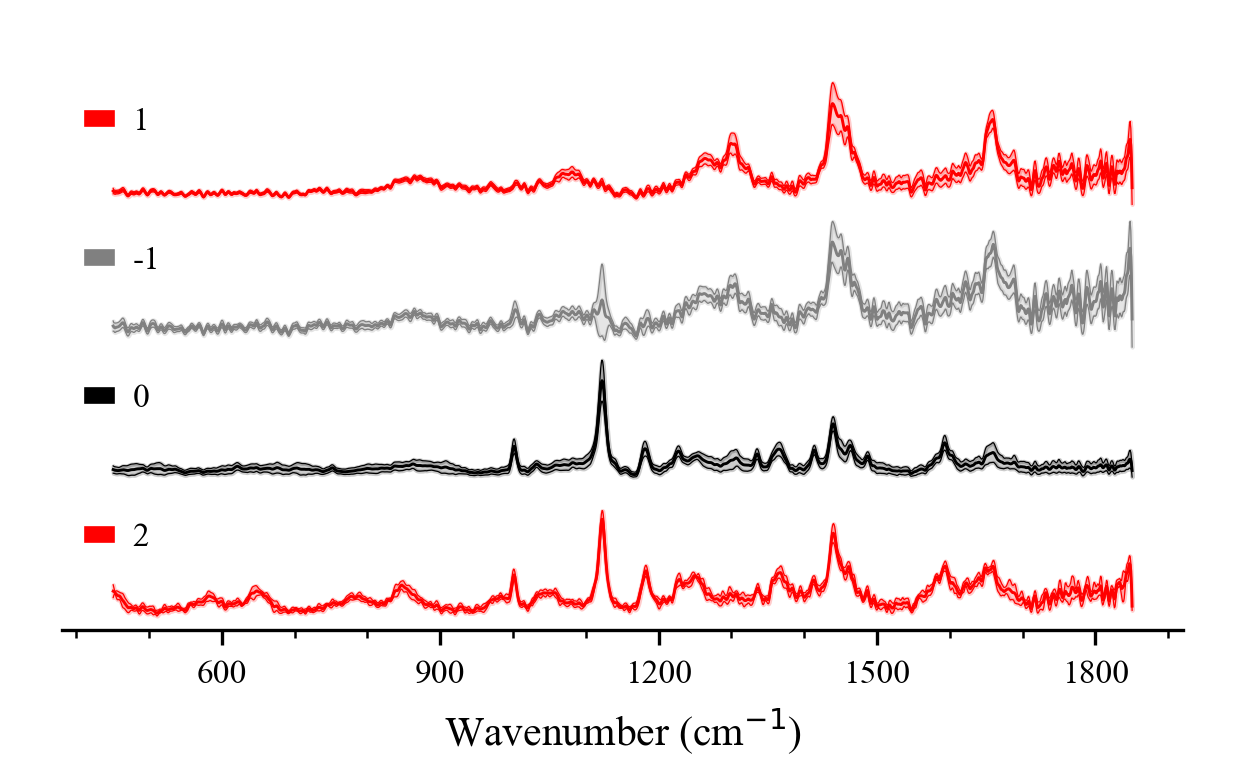
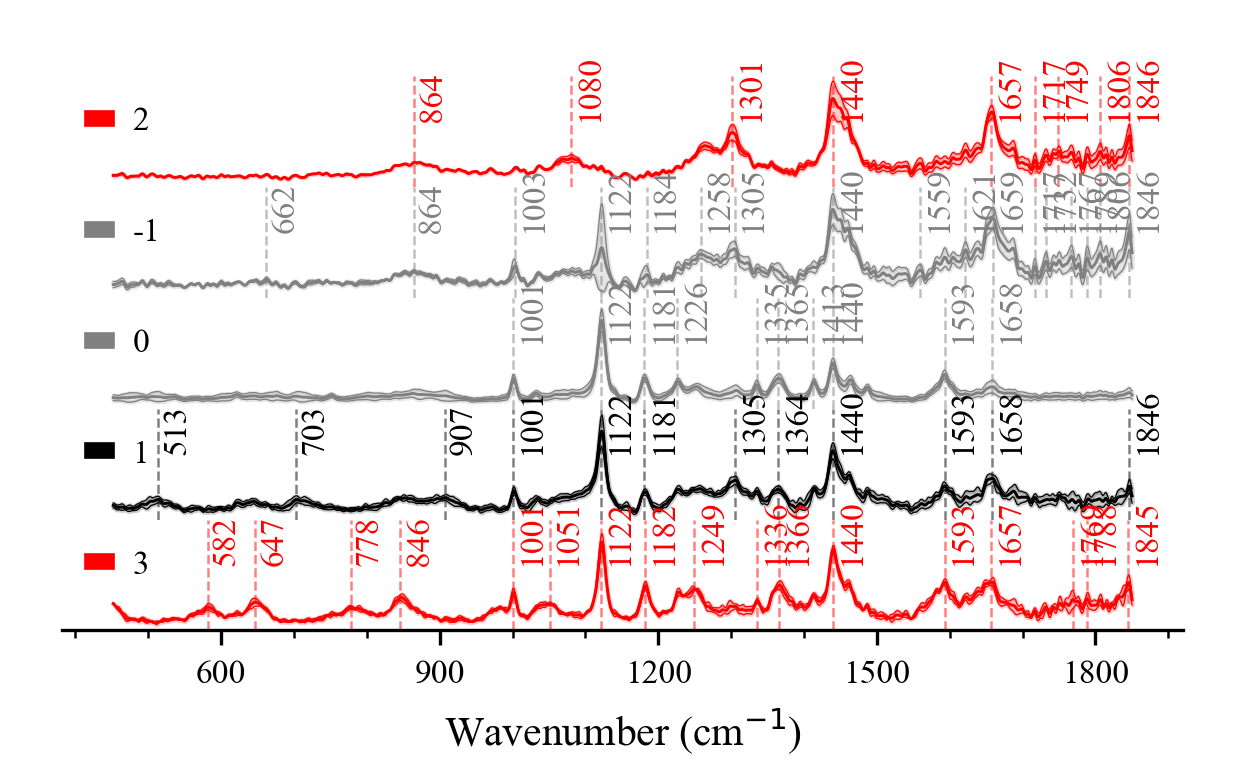
Enhance HDBSCAN clustering imaging and signature outputs

diff --git a/generate_plots.py b/generate_plots.py
@@ -1,0 +1,31 @@
+import matplotlib.pyplot as plt
+import os
+import sys
+
+os.makedirs('docs/images', exist_ok=True)
+sys.path.insert(0, 'src')
+
+print('Generating PCA/PLS plots...')
+with open('examples/plastics_PLS_PCA/PCA_PLS.py', 'r', encoding='utf-8') as f:
+    code = f.read()
+    # Don't show interactive plots, just save them
+    code = code.replace('plastics.show_stack', '# plastics.show_stack')
+    code = code.replace('plastics.show', '# plastics.show')
+    code = code.replace('scores_pca.show_scatter(main_label, 15, "auto")', 'scores_pca.show_scatter(main_label, 15, "auto"); plt.savefig("docs/images/pca_scores.png"); plt.close("all")')
+    exec(code, globals())
+
+print('Generating Tissue Signature plot (Processing Algorithm & Peaks)...')
+# We use the processed 'plastics' object from the PCA_PLS script which has K-means applied.
+# This plots the stacked mean spectra with standard deviations and peak detection (prominence=0.1, offset=0.5)
+plastics.show_stack(0.1, 0.5, 'auto')
+plt.savefig('docs/images/tissue_signature.png', dpi=300)
+plt.close('all')
+
+print('Generating Clustering plot...')
+with open('examples/microplastics_tissue/microplastics.py', 'r', encoding='utf-8') as f:
+    code2 = f.read()
+    code2 = code2.replace('micro.show_map', 'colors = micro.show_map(["gray", "k", "r"], None, 1); plt.savefig("docs/images/clustering_map.png"); plt.close("all"); #')
+    code2 = code2.replace('micro.show_stack(0.1, 0.5, colors)', 'micro.show_stack(0.1, 0.5, colors); plt.savefig("docs/images/clustering_stack.png", dpi=300); plt.close("all")')
+    exec(code2, globals())
+
+print('Done!')

diff --git a/examples/microplastics_tissue/microplastics.py b/examples/microplastics_tissue/microplastics.py
@@ -11,6 +11,10 @@ path = 'examples/microplastics_tissue/microplastics_tissue'
 micro = sp.hyper_object('MP') #creating the hyper object Wavenumber (cm-1) No. of pixels Wavenumber (cm-1
 micro.read_csv_xz(path) #reading the csv file
 ### processing ###
+micro.keep(400, 1850) # keep fingerprint and high wavenumber region
+micro.gaussian(2) # apply gaussian filter
+micro.vector() # vector normalization
+
 micro.hdbscan(5, 5) # hierarchical density-based clustering (HDBSCAN)
 colors = micro.show_map(['gray', 'k', 'r'], None, 1) # 2D map of the clusters(Fig.5.6(a))
-micro.show_stack(0,0, colors) # stack of the spectral clusters (Fig. 5.6(b))
+micro.show_stack(0.1, 0.5, colors) # stack of the spectral clusters (Fig. 5.6(b))
